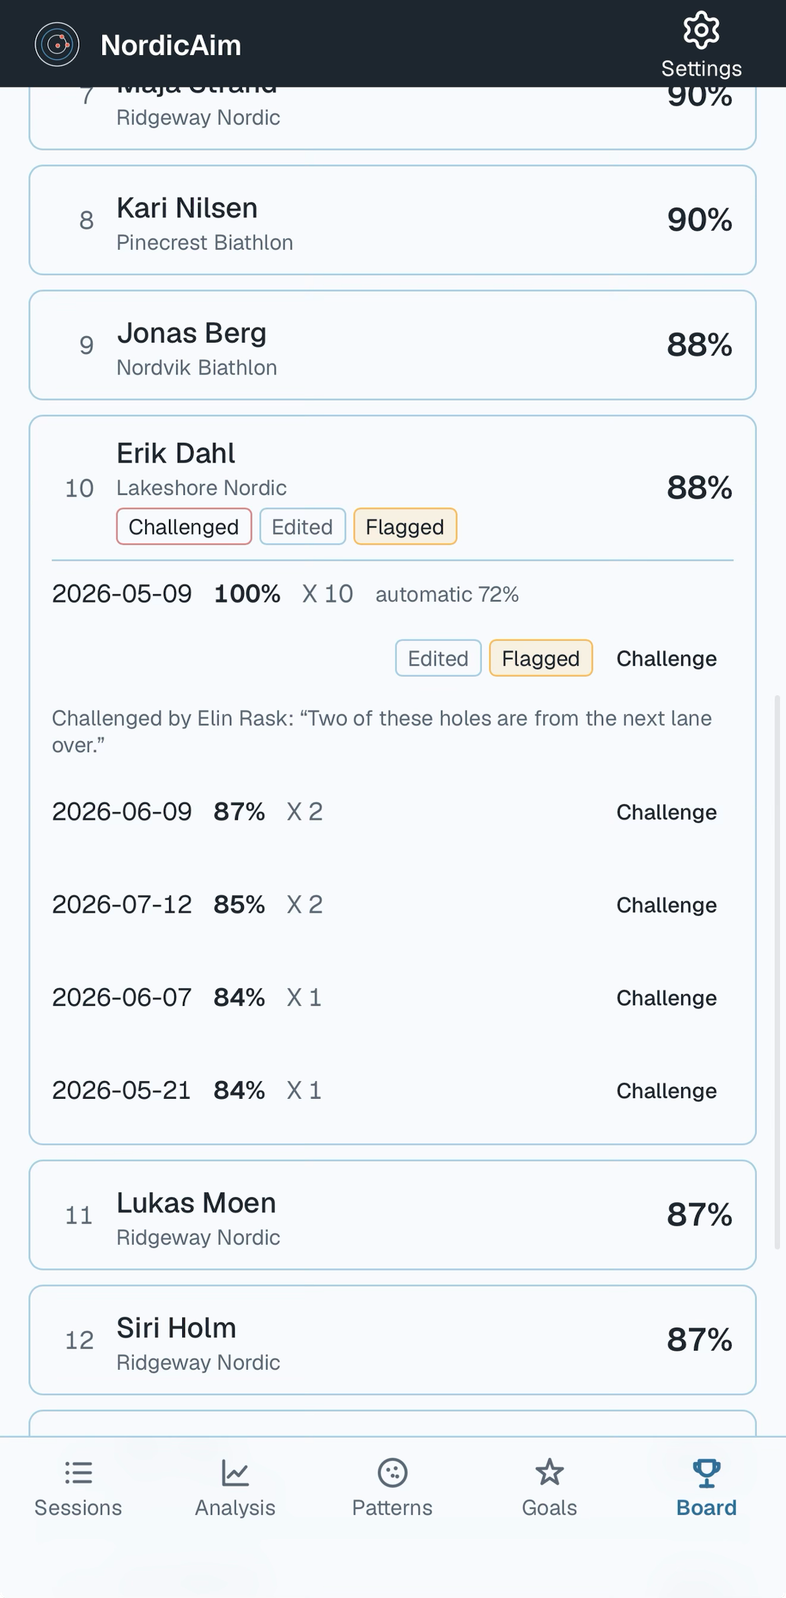
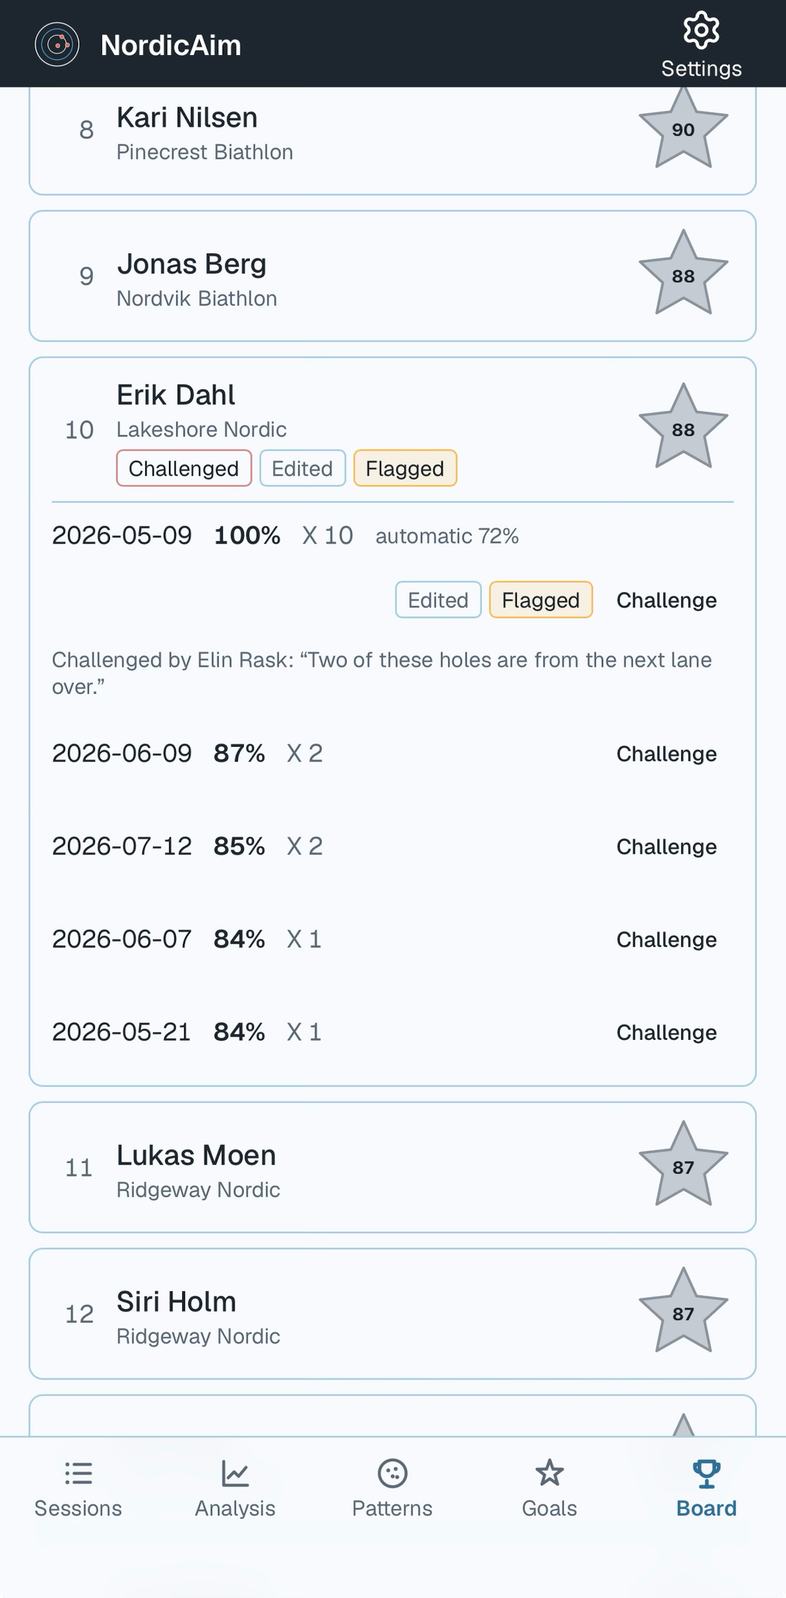
Docs: guide sections for Seasons, Goals and the Board, with the owner's screenshots
- Guide: five tabs on the bottom bar; the Sessions screenshot and its season row; the
  Edited by hand note under corrections; the Patterns date slider; new sections 11
  Seasons, 12 Goals and 13 The Board; received boards in a full backup; glossary terms.
- README: Analysis is on the bottom bar; a Goals and Board section.
- Workflow: Settings is the gear; Patterns slider stops; Goals and the Board after a session.
- Board entry screenshot retaken with the score stars.

Claude-Session: https://claude.ai/code/session_011nJupxVuQvQUQUo39E3m88

diff --git a/docs/guide/README.md b/docs/guide/README.md
@@ -20,10 +20,13 @@ Short on time? The **[workflow, step by step](workflow.md)** is the eight-step v
 8. [Review a whole session](#8-review-a-whole-session)
 9. [Patterns over time](#9-patterns-over-time)
 10. [Trends and the coach image](#10-trends-and-the-coach-image)
-11. [Settings](#11-settings)
-12. [Back up and restore](#12-back-up-and-restore)
-13. [If something looks wrong](#13-if-something-looks-wrong)
-14. [Words used in NordicAim](#14-words-used-in-nordicaim)
+11. [Seasons](#11-seasons)
+12. [Goals](#12-goals)
+13. [The Board](#13-the-board)
+14. [Settings](#14-settings)
+15. [Back up and restore](#15-back-up-and-restore)
+16. [If something looks wrong](#16-if-something-looks-wrong)
+17. [Words used in NordicAim](#17-words-used-in-nordicaim)
 
 ---
 
@@ -35,11 +38,15 @@ Short on time? The **[workflow, step by step](workflow.md)** is the eight-step v
 
 Do this on Wi-Fi. The first load downloads the image analysis engine. After that, NordicAim works offline, so you can use it at a range with no signal.
 
-The bar at the bottom has three screens, always one tap apart: **Sessions** (your sessions, photos and results), **Analysis** (your trends over time) and **Patterns** (every shot, every session). **Settings** is the gear at the top right, and **Diagnostics** is at the bottom of Settings.
+The bar at the bottom has five screens, always one tap apart: **Sessions** (your sessions, photos and results), **Analysis** (your trends over time), **Patterns** (every shot, every session), **Goals** (where you want your numbers to be) and **Board** (your best targets against other shooters'). **Settings** is the gear at the top right, and **Diagnostics** is at the bottom of Settings.
 
 ## 2. Your first session
 
-A session is one visit to the range: a sight in, a confirm, one or two precision targets. On the Sessions screen, each session's row shows the marks of the targets it holds (up to four, one per target; past that, one per kind with a count), so a session missing a target stands out. A plain ring is a target whose kind isn't chosen yet.
+A session is one visit to the range: a sight in, a confirm, one or two precision targets. On the Sessions screen, each session's row shows the marks of the targets it holds (up to four, one per target; past that, one per kind with a count), so a session missing a target stands out. A plain ring is a target whose kind isn't chosen yet. The row of season buttons above the list shows only one season's sessions (see [section 11](#11-seasons)).
+
+<p align="center">
+  <img src="../assets/screens/home.png" width="300" alt="The Sessions screen: Start and capture, the season row, and four sessions, each with the marks of its sight in, confirm, prone and standing targets">
+</p>
 
 1. On the Sessions screen, tap **Start & capture** (or **Capture (today's session)** if you already started one today).
 2. Choose what you are photographing: **Sight in**, **Confirm**, **Precision prone** or **Precision standing**. Each button carries the mark that kind of target has everywhere in the app: a scatter for sight in, a scope sight for confirm, a flat bar for prone and an upright bar for standing.
@@ -124,7 +131,7 @@ The summary image puts your session on one page: the sight in and the confirm ac
 
 Tap **Share** to send the image with the iPhone share sheet: save it to Photos, message it to a coach or teammate, or post it to your team's chat. If you have changed anything since, tap **Update summary** first.
 
-Only two images ever leave NordicAim, and only when you tap **Share**: this summary image, and the coach image from the Analysis screen (see [section 10](#10-trends-and-the-coach-image)). Your original photos stay on your phone.
+Only two images ever leave NordicAim, and only when you tap **Share**: this summary image, and the coach image from the Analysis screen (see [section 10](#10-trends-and-the-coach-image)). Your original photos stay on your phone. The Board shares files too, never images: names, clubs and shot positions, only when you tap (see [section 13](#13-the-board)).
 
 ## 7. Correct a shot or the alignment
 
@@ -143,6 +150,12 @@ Under the photo, the **Swipe** and **Fade** sliders compare the drawing with you
 
 When you are done, tap **Save** (or **Save and re-analyze** after you moved the rings). NordicAim keeps every shot you placed by hand, looks again with the alignment you set, and re-scores. Shots stay on their holes when you move the rings.
 
+The first time you correct a precision target by hand, NordicAim keeps the score it found on its own. From then on, the target's screen shows an **Edited by hand** note with both scores, for example *automatic 70% → yours 82% (+12)*. A correction that moves the score by more than 10 points, either way, is **flagged** on the Board (see [section 13](#13-the-board)). It still counts: the flag only says the score rests on your corrections. A target corrected before NordicAim kept automatic scores says so, as there is nothing to compare it with.
+
+<p align="center">
+  <img src="../assets/screens/correction-note.png" width="300" alt="A precision target's screen with its score, the Edited by hand note, and the target diagram below">
+</p>
+
 If you change a photo's target type, for example from Sight in to Precision prone (**Edit type, rounds, lighting** on its screen), NordicAim re-runs the alignment and detection for you, as long as you have not already edited the photo by hand.
 
 ## 8. Review a whole session
@@ -153,7 +166,9 @@ Tap **Review session** on the results screen to step through the session's photo
 
 Tap **Patterns** on the bottom bar.
 
-Patterns lays every shot you have recorded over the printed target, one view for each kind of target: **Sight in**, **Confirm**, **Precision prone** and **Precision standing**. Dots are translucent, so where they pile up they darken. Choose **Latest session**, **This week**, **30 days**, **90 days** or **All time**.
+Patterns lays every shot you have recorded over the printed target, one view for each kind of target: **Sight in**, **Confirm**, **Precision prone** and **Precision standing**. Dots are translucent, so where they pile up they darken.
+
+The slider under the views picks how far back to look. From left to right: **-∞** (all time), **-90**, **-30**, **-14** and **-7** days, then **1**, the latest session. The season row below it narrows that to one season (see [section 11](#11-seasons)).
 
 <p align="center">
   <img src="../assets/screens/patterns.png" width="300" alt="The Patterns screen on Prone, with the date slider and the season row above every precision prone shot laid over the printed target">
@@ -191,7 +206,61 @@ From three sessions, the Score (or Hit rate), Group size and Accuracy charts dra
   <br><sub>A coach image of three range sessions.</sub>
 </p>
 
-## 11. Settings
+## 11. Seasons
+
+Sessions, Patterns, Analysis and Goals each have a row of five buttons: **All**, then **Winter** (a snowflake), **Spring** (a sprout), **Summer** (the sun on the water) and **Fall** (a maple leaf). Tap one to see only that season. **All** shows everything again.
+
+- A target's season is the one you chose for its photo in **Add metadata**. Without one, it follows the day the photo was taken, then the session date.
+- On Patterns and Analysis the season works with the date slider: the season is chosen first, then the range. **1** under Winter is your latest winter session, and **-30** under Summer is the summer sessions of the last 30 days.
+- On the Sessions screen, a session shows under a season when any of its targets belongs to it.
+
+## 12. Goals
+
+Tap **Goals** on the bottom bar. Choose **Prone** or **Standing**, then set where you want each measure to be: **Score**, **Group size**, **Accuracy (RMS)** and **Biathlon hits** (the share of your shots that would hit the biathlon hit zone: 45 mm prone, 115 mm standing).
+
+<p align="center">
+  <img src="../assets/screens/goals.png" width="300" alt="The Goals screen on Prone: the season row, then the Score chart with its goal line at 85% and the Group size chart below">
+</p>
+
+Each chart plots every session, with the dashed trend line from three sessions, as on Analysis. Tap **▲** or **▼** beside a chart to move its goal, drawn as a solid blue line. Each tap saves at once.
+
+Under the title, the chart says how you are doing **since you set the goal**: *Average since set: 87% over 3 sessions · Hit*, or *· Not yet*. Until you shoot a session after setting it, it says *No sessions since this goal was set*. Changing a goal starts that count again.
+
+**Did a session meet its goals?** Each session is judged against the goals you had set **when the session was created**. A goal set later never reaches back, so a session's checks don't change when you change your goals. A session with goals in effect shows a **Goals** card on its results, with a ✓ or ✗ for each goal. Its summary image gains a Goals table and a green seal on each precision target whose goals were all met. On the Goals charts, the dot of a session that met its goal is ringed in green.
+
+## 13. The Board
+
+The Board ranks shooters by the **average of their best 5 precision targets**, one board for **Prone** and one for **Standing**. There is no server: boards travel as files you share and import, so each phone holds its own board.
+
+<p align="center">
+  <img src="../assets/screens/board.png" width="300" alt="The Board on Prone: Your submission with four of five targets, each marked Edited, then Share my submission, Import and Share the whole board">
+</p>
+
+**Your submission.** The top of the Board shows what you would submit for the chosen position: your best 5 analysed precision targets **of all time**, picked for you, and their average. You need five targets for a position before you can submit it. Tap a target to open it. Every phone scores board targets the same way, by the official gauge with a 5.6 mm hole, so the board is fair whatever your scoring rule in Settings.
+
+**Edited and Flagged.** A target you corrected by hand (a shot or the alignment) carries an **Edited** mark. A correction that moved its score by more than 10 points is also **Flagged** (see [section 7](#7-correct-a-shot-or-the-alignment)). Both still count. They tell everyone how the score was made.
+
+**Share and import.**
+
+- **Share my submission** sends your entry as a file from the share sheet. It needs your **name** in Settings and your **stamp passphrase**, which signs the file. Any change made to it after signing is caught, and that submission is turned away on import.
+- **Import…** opens a file someone shared with you: one shooter's submission or a whole board. NordicAim checks every signature, scores every target again from its shot positions, and shows what would change, for example *1 new shooter, 0 updated, 1 already on your board*. Nothing is saved until you tap **Add to my board**.
+- **Share the whole board** sends every shooter on your board in one file, so one person can collect submissions and pass the board on.
+
+A newer submission from the same shooter replaces the older one, and importing the same file twice changes nothing. A board keeps the best 100 shooters.
+
+<p align="center">
+  <img src="../assets/screens/board-list.png" width="300" alt="A board of fictional shooters: a gold trophy in place of first, each average in a gold or silver star, and Edited and Challenged marks">
+  &nbsp;
+  <img src="../assets/screens/board-entry.png" width="300" alt="One fictional shooter's entry opened: five targets with date, score and X count, one marked Edited and Flagged with its automatic score, and a challenge with its reason">
+</p>
+
+**Reading the board.** Each row shows the shooter, their club, their marks and their average in the same star as a session's score: gold above 90, silver from 80, bronze from 70, a plain circle below. The top scorer has a **trophy** in place of *1*. Ties go to more Xs, then the smaller group, then the earlier date. Once you have five targets for a position, your own row joins the board: highlighted, marked *(you)*, and always showing your current best 5. Tap a row to open its five targets: the date, the score and the X count, and for a corrected target, its automatic score too.
+
+**Challenges.** If a target looks wrong to you, say a hole from the next lane, tap **Challenge** beside it and write why. Your challenge is signed with your passphrase and saved on your board. Share it so the shooter and others see it. The entry is then marked **Challenged**, with each reason under its target. When the shooter shares a newer submission, it answers the challenge, and the challenge is dropped. **Hide flagged** and **Hide challenged** take those entries off your view of the board. Your own row always shows.
+
+What a submission holds: your name, club, the dates, rounds, marks and shot positions of five targets. Never a photo, never a location. A full backup keeps the boards and challenges you received (see [section 15](#15-back-up-and-restore)).
+
+## 14. Settings
 
 Everything here applies to **every session**.
 
@@ -223,11 +292,12 @@ Changing the rule **re-scores every session you have stored**. Your shots and al
 
 **Backup.** See the next section.
 
-## 12. Back up and restore
+## 15. Back up and restore
 
 Your sessions are stored only on your phone. If you delete the Home Screen app or clear Safari's website data, they are gone.
 
 - In **Settings**, tap **Back up now** to save everything to one file. Use the share sheet to save it to Files or send it to yourself.
+- A backup of everything also keeps the board submissions and challenges you received. A backup of chosen sessions leaves them out.
 - To save or send just some sessions (one range day, say), choose **Choose sessions** in the same dialog and tick the ones you want. The file is much smaller and its name ends with how many sessions it holds, for example `…-2026-09-30-1-session.json.gz`. It doesn't count as your backup, so the reminder still waits for a backup of everything.
 - The file is compressed and named after you and the day, for example `nordic-aim-backup-jane-doe-3FA91C07-2026-09-27.json.gz`: your name, your key fingerprint if you set a passphrase, and the date. To keep it small, it holds each original photo once; the smaller copies NordicAim works from are made again when you restore. When it is done, Settings tells you the size, and the size before compression.
 - NordicAim reminds you when you have never backed up, or when the last backup is more than 14 days old (you can change the number of days).
@@ -240,7 +310,7 @@ Your sessions are stored only on your phone. If you delete the Home Screen app o
 
 A backup file contains your photos, and those hold their location. NordicAim tells you this before it creates the file. Keep the file somewhere you trust.
 
-## 13. If something looks wrong
+## 16. If something looks wrong
 
 - **Rings are off the printed rings.** Open the target (tap its picture), choose **Alignment** and drag the handles, then **Save and re-analyze**.
 - **A hole was missed.** In **Shots**, tap the hole to add it.
@@ -251,7 +321,7 @@ A backup file contains your photos, and those hold their location. NordicAim tel
 
 Found a bug or a score that looks wrong? [Open an issue](https://github.com/KomplexMojo/NordicAim/issues) and say what you shot and what you expected.
 
-## 14. Words used in NordicAim
+## 17. Words used in NordicAim
 
 | Term | Meaning |
 |---|---|
@@ -269,3 +339,9 @@ Found a bug or a score that looks wrong? [Open an issue](https://github.com/Komp
 | **Coach image** | One image of a date range: the Patterns drawings and your averages, with trend arrows. |
 | **Group ellipse** | The oval that best fits your group, drawn on the diagram. |
 | **Alignment** | How the drawn target sits on your photo. |
+| **Season** | Winter, Spring, Summer or Fall: a filter on Sessions, Patterns, Analysis and Goals. |
+| **Goal** | Where you want a measure to be, for Prone or Standing. A session is judged against the goals set when it was created. |
+| **Board** | Shooters ranked by the average of their best 5 precision targets, shared as signed files. |
+| **Edited** | A target corrected by hand: a shot or the alignment. |
+| **Flagged** | A correction that moved a target's score by more than 10 points. It still counts. |
+| **Challenge** | A signed note from another shooter saying a board target looks wrong, and why. |

diff --git a/README.md b/README.md
@@ -119,7 +119,7 @@ You choose what to share and when. NordicAim does not connect to Strava or Garmi
 
 ### Your trends, and one image for your coach
 
-The **Analysis** screen, at the top beside **Patterns**, shows how you are moving with one point per session: score or hit rate, group size, accuracy and point of impact, with a dashed trend line from three sessions on the score, group size and accuracy.
+The **Analysis** screen, on the bottom bar beside **Patterns**, shows how you are moving with one point per session: score or hit rate, group size, accuracy and point of impact, with a dashed trend line from three sessions on the score, group size and accuracy.
 
 <table>
   <tr>
@@ -132,9 +132,28 @@ The **Analysis** screen, at the top beside **Patterns**, shows how you are movin
   </tr>
 </table>
 
+### Goals, and a board to compare with other shooters
+
+**Goals** lets you set where you want your prone and standing score, group size, accuracy and biathlon hits to be, draws each goal on its chart, and says whether the sessions since have hit it. Each session's results and summary image show whether it met the goals you had at the time.
+
+The **Board** ranks shooters by the average of their best 5 precision targets, one board for prone and one for standing. There is no server: you share your signed submission as a file and import other shooters', so each phone keeps its own board. Every target is scored again on the phone that receives it, targets corrected by hand are marked (and flagged when the correction moved the score more than 10 points), and anyone can challenge a target with a reason.
+
+<table>
+  <tr>
+    <td align="center" width="50%"><img src="docs/assets/screens/goals.png" alt="The Goals screen on Prone: the season row, then the Score chart with its goal line at 85% and the Group size chart below" width="300"></td>
+    <td align="center" width="50%"><img src="docs/assets/screens/board-list.png" alt="A board of fictional shooters: a gold trophy in place of first, each average in a gold or silver star, and Edited and Challenged marks" width="300"></td>
+  </tr>
+  <tr>
+    <td valign="top"><b>Goals.</b> Tap ▲ or ▼ beside a chart to move its goal line. Every session since is counted against it.</td>
+    <td valign="top"><b>The Board.</b> A sample board of fictional shooters. Your best 5 are picked for you; nothing is sent until you tap Share.</td>
+  </tr>
+</table>
+
+Sessions, Patterns, Analysis and Goals can each be narrowed to one **season**: winter, spring, summer or fall.
+
 Want the whole routine, from installing to comparing against your history? See the **[workflow, step by step](docs/guide/workflow.md)**.
 
-New to it? The **[guide](docs/guide/README.md)** covers getting good photos, reading the results, corrections, patterns and backup in more detail.
+New to it? The **[guide](docs/guide/README.md)** covers getting good photos, reading the results, corrections, patterns, goals, the Board and backup in more detail.
 
 ## Security and code review
 

diff --git a/docs/guide/workflow.md b/docs/guide/workflow.md
@@ -27,11 +27,11 @@ Do this on Wi-Fi. The first load downloads the image analysis engine. After that
 
 ## 2. Set up your athlete details
 
-Open **Settings** on the bottom bar. Under **Athlete**, fill in:
+Open **Settings**, the gear at the top right. Under **Athlete**, fill in:
 
 - **Name** and **Ski club**, which appear on the summary and coach images you share, and name your backup files.
 - **Handedness**, right-handed or left-handed.
-- **Passphrase**, at least 12 characters. It creates the stamp that lets anyone check a summary image really came from you and was not edited, and the key fingerprint in your backup file names. The passphrase itself is never stored and never leaves the phone, so keep a note of it somewhere safe.
+- **Passphrase**, at least 12 characters. It creates the stamp that lets anyone check a summary image really came from you and was not edited, the key fingerprint in your backup file names, and the signature on your Board submission. The passphrase itself is never stored and never leaves the phone, so keep a note of it somewhere safe.
 
 <p align="center">
   <img src="../assets/screens/settings.png" width="300" alt="The Settings screen with the Athlete section: name, ski club, handedness and passphrase">
@@ -97,7 +97,7 @@ Tap **Update summary** if you changed anything, then **Share** to send the image
 
 ## 8. Review the session against your patterns and trends
 
-Tap **Patterns** at the top of the screen. Choose the kind of target (**Sight in**, **Confirm**, **Precision prone** or **Precision standing**) and **Latest session**, then compare it with **30 days**, **90 days** or **All time**.
+Tap **Patterns** on the bottom bar. Choose the kind of target (**Sight in**, **Confirm**, **Precision prone** or **Precision standing**) and slide to **1**, the latest session, then compare it with **-30**, **-90** or **-∞** (all time). The season row below narrows any of these to one season.
 
 Every shot is laid over the printed target. Where they pile up they darken, so you can see whether today's group sits where your usual group does, and whether your misses have a habit. The **Observed patterns** panel gives the group size, mean radius and how far the group sits from centre.
 
@@ -112,6 +112,8 @@ Then tap **Analysis** beside it. The same kinds of target and ranges, but one po
 </p>
 
 For a coach, tap **Make coach image**, then **Share**: one picture with the Patterns drawings and your averages for the range, each with a small arrow for its trend.
+
+Then check **Goals**: whether the session met the goals you had set, and how the sessions since each goal was set average out. When a precision target makes your best 5, it changes your submission on the **Board**. Share it again so the other shooters' boards stay current.
 
 ## Keep a backup
 
